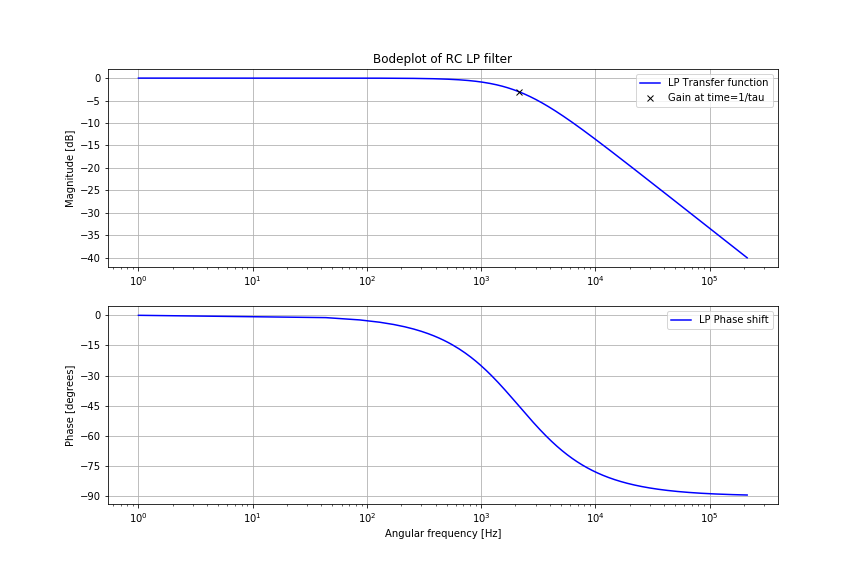
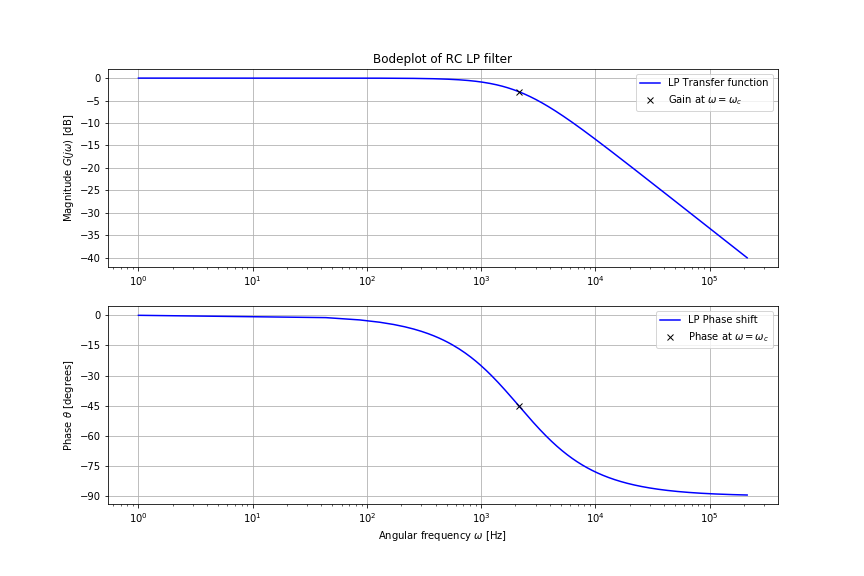
Kommentarer og akseredigering

diff --git a/Python_kode.py b/Python_kode.py
@@ -22,12 +22,13 @@ time_charge = (time[5001] - time[0])
 # Voltage drop across capacitor as a function of time
 # =============================================================================
 "The values of the components used in the experiment are defined:"
-R = 4732
-C = 98.98 * 10**(-9)
-tau = R*C
-V0 = 2
+R = 4732                                            # Resistance
+C = 98.98 * 10**(-9)                                # Capacitance
+tau = R*C                                           # Time constant
+omega_c = 1/tau                                     # Cutoff frequency
+V0 = 2                                              # Initial voltage
 
-K = -4
+V = 4
 
 R2 = R*10
 tau2 = R2*C
@@ -75,7 +76,7 @@ def V_C2(t):
     t: float
         The time as the circuit enters steady state
     """
-    return V0 + np.exp(-t/tau)*(V0 + K) - V0/2
+    return V0 + np.exp(-t/tau)*(V0 - V) - V0/2
 
 
 def H_lp(omega):
@@ -196,21 +197,26 @@ plt.savefig('deviation.png')
 
 plt.figure(figsize=(12, 8))
 plt.subplot(2, 1, 1)
-plt.semilogx(omega, 20*np.log10(H_lp(omega)), 'b-', label='LP Transfer function')
-plt.semilogx(1/tau, 20*np.log10(H_lp(1/tau)), 'kx', label='Gain at time=1/tau')
+plt.semilogx(omega, 20*np.log10(H_lp(omega)),
+             'b-', label='LP Transfer function')
+plt.semilogx(omega_c, 20*np.log10(H_lp(omega_c)),
+             'kx', label='Gain at $\omega=\omega_c$')
 plt.legend()
 plt.grid(True)
-plt.ylabel('Magnitude [dB]')
+plt.ylabel('Magnitude $G(j\omega)$ [dB]')
 plt.title('Bodeplot of RC LP filter')
 
 
 plt.subplot(2, 1, 2)
-plt.semilogx(omega, np.arctan(-omega*tau)*180/np.pi, 'b-', label='LP Phase shift')
+plt.semilogx(omega, np.arctan(-omega*tau)*180/np.pi,
+             'b-', label='LP Phase shift')
+plt.semilogx(omega_c, np.arctan(-omega_c*tau)*180/np.pi,
+             'kx', label='Phase at $\omega=\omega_c$')
 plt.yticks(np.arange(0, -105, step=-15))
 plt.legend()
 plt.grid(True)
-plt.xlabel('Angular frequency [Hz]')
-plt.ylabel('Phase [degrees]')
+plt.xlabel('Angular frequency $\omega$ [Hz]')
+plt.ylabel('Phase $\u03B8$ [degrees]')
 
 plt.savefig('bodeplot_rc_lp.png')
 plt.show()
@@ -221,14 +227,17 @@ plt.show()
 
 plt.figure(figsize=(12, 8))
 plt.subplot(2, 1, 1)
-plt.semilogx(omega, 20*np.log10(H_hp(omega)), 'b-', label='HP Transfer function')
-plt.semilogx(1/tau, 20*np.log10(H_hp(1/tau)), 'kx', label='Gain at time=1/tau')
+plt.semilogx(omega, 20*np.log10(H_hp(omega)),
+             'b-', label='HP Transfer function')
+plt.semilogx(1/tau, 20*np.log10(H_hp(1/tau)),
+             'kx', label='Gain at time=1/tau')
 plt.legend()
 plt.ylabel('Magnitude [dB]')
 plt.title('Bodeplot of RC HP filter')
 
 plt.subplot(2, 1, 2)
-plt.semilogx(omega, np.arctan(omega*tau)*180/np.pi, 'b-', label='HP Phase shift')
+plt.semilogx(omega, np.arctan(omega*tau)*180/np.pi,
+             'b-', label='HP Phase shift')
 plt.yticks(np.arange(0, 105, step=15))
 plt.legend()
 plt.xlabel('Angular frequency [Hz]')
@@ -242,9 +251,12 @@ plt.show()
 
 plt.figure(figsize=(12, 8))
 #plt.subplot(2, 1, 1)
-plt.semilogx(omega, 20*np.log10(H_bp(omega)), 'b-', label='BP Transfer function')
-plt.semilogx(1/tau, 20*np.log10(H_bp(1/tau)), 'kx', label='Gain at time=1/tau')
-plt.semilogx(1/tau2, 20*np.log10(H_bp(1/tau2)), 'kx')
+plt.semilogx(omega, 20*np.log10(H_bp(omega)),
+             'b-', label='BP Transfer function')
+plt.semilogx(1/tau, 20*np.log10(H_bp(1/tau)),
+             'kx', label='Gain at time=1/tau')
+plt.semilogx(1/tau2, 20*np.log10(H_bp(1/tau2)),
+             'kx')
 plt.legend()
 plt.ylabel('Magnitude [dB]')
 plt.title('Bodeplot of RC BP filter')
